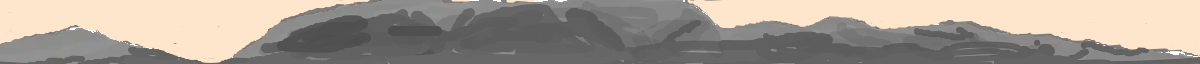
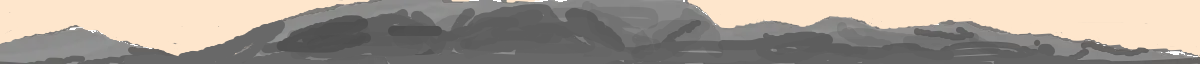
Improve dark theme colours

Changed region(s): [[0.1233, 0.3125, 0.2467, 1.0], [0.5858, 0.0, 0.6167, 0.0312]]

diff --git a/styles.css b/styles.css
@@ -3,20 +3,21 @@
 }
 
 :root {
-    --navbar-color: whitesmoke;
-    --bg-color: #fefefe; 
+    --navbar-color: #ddd;
+    --bg-color: #fee6cc; 
     --sky-color: #fee6cc; 
     --ground-color: #555;
     --mountain-color: #686868;
     --text-color: #444;
     --link-color: black;
     --hover-color: white;
+    --accent-color: rgb(255, 91, 123);
 }
-
 .navbar { /* containers */
     padding: 0 3vw;
     align-items: center;
     background-color: var(--navbar-color);
+    color: black;
     width: 100%;
     height: 70px;
     top: 0px;
@@ -41,24 +42,16 @@
    filter:opacity(50%);
 }
 .navbar a:hover, a:active {
-    background-color: var(--bg-color);
+    background-color: var(--navbar-color);
 }
 .navbar img:hover, img:active {
   filter: invert(100%);
 }
 #active-page {
     background-color: #555;
-    box-shadow: 5px 5px 2px #bbb;
 }
 #active-page img { /*icon for active page */
     filter: invert(100%);
-}
-
-footer {
-    width: 100%;
-    background-color: #ddd;
-    text-align: center;
-    padding: 8px 30px;
 }
 
 #submenu  { /* container for subpages titles and in-page navigation to level 2 headings */
@@ -245,20 +238,23 @@ body {
 
 body.dark-mode {
     --bg-color: #303030;
-    --navbar-color: #acacc9;
+    --navbar-color: #9191a8;
     --text-color: #fefefe;
     --link-color: white;
     --hover-color: black;
     --sky-color: #999;
     --ground-color: #303030;
     --mountain-color: #404040;
+    --accent-color: #b0b0ee;
 }
-
 body.dark-mode > .banner {
     background-image: url('assets/AGAS-banner-dark.webp');
 }
 body.dark-mode > .banner-sub {
     background-image: url('assets/AGAS-banner-sub-dark.webp');
+}
+body.dark-mode > .centerblock {
+    background-image: url('assets/welcome-heart-de.webp')
 }
 
 p, ul, h5 {
@@ -291,19 +287,7 @@ li {
   padding: 12px 0 0;
   background-size: 100% 100%;
   border-radius: 30%;
-}
-
-#fra.centerblock {
-    background-image: url('assets/welcome-heart-fr.webp');
-}
-#deu.centerblock {
-    background-image: url('assets/welcome-heart-de.webp');
-}
-#esp.centerblock {
-    background-image: url('assets/welcome-heart-es.webp');
-}
-#eng.centerblock {
-    background-image: url('assets/welcome-heart-en.webp');
+  background-image: url('assets/welcome-heart-fr.webp')
 }
 
 .centerblock a {
@@ -323,7 +307,7 @@ li {
 
 a {
     color: var(--link-color);
-    text-decoration: underline #ccc 1px;
+    text-decoration: underline 1px;
 }
 a:hover, a:active {
     background-color: var(--hover-color);
@@ -377,7 +361,7 @@ h3 {/* catch-eye heading */
     line-height: 1.5;
     padding: 0 15vw;
     margin: 30px 0 10px 0;
-    text-decoration: overline white 9px;
+    text-decoration: overline var(--accent-color) 9px;
 }
 
 
@@ -399,7 +383,6 @@ h5 img {height:18px; width:auto}
     font-size: 1rem;
     position:relative;
     top: 25px;
-    color: var(--text-color);
     background-color: none;
 }
 
@@ -409,8 +392,8 @@ h5 img {height:18px; width:auto}
 p.warning {
     background-color: white;
     color: #444;
-    border-color:  #86857f;
     border-style: solid;
+    border-color: var(--accent-color);
     border-width: 0 0 0 10px;
     margin: 30px 15vw;
     padding: 30px 10px;
@@ -431,6 +414,14 @@ p.decline {
 .decline a:hover {
     background-color: white;
 }
+
+footer {
+    width: 100%;
+    background-color: var(--navbar-color);
+    text-align: center;
+    padding: 8px 30px;
+}
+
 .rollout-bar { /* for "Please wait" bar in javascript (JSON feed) */
     margin: 0 15vw;
     background-color: rgba(255,255,255,0.8);

diff --git a/deutsch.html b/deutsch.html
@@ -44,12 +44,11 @@
     <a href="saleve.html">Salève</a> zu besteigen. 
     Alle Wanderfreunde sind willkommen. Ein Verantwortlicher des Genfer Vereins 
     <a href="association.html">Association Genevoise des Amis du Salève</a></span> erwartet euch dort bei jedem Wetter. 
-    Anmeldung nicht nötig. <strong>Alle Infos finden sich hier auf dieser Seite.</strong>
+    Anmeldung nicht nötig. <strong>Alle Infos finden sich hier auf dieser Seite.</strong></h5>
 
   <p class="warning">Unbedingt erforderlich sind <strong>eine gute körperliche Verfassung</strong> und <strong>gutes Schuhwerk</strong> 
     (keine Barfußschuhe, Flip-Flops usw.!). Der Salève ist ein echter Berg, wo beim Wandern Vorsicht geboten ist.<br>
-    <strong>Nehmt ausreichend Wasser mit</strong>, entlang der Wanderwege auf dem Salève gibt es kein Trinkwasser.
-  </p>
+    <strong>Nehmt ausreichend Wasser mit</strong>, entlang der Wanderwege auf dem Salève gibt es kein Trinkwasser.</p>
   <p>Ausserdem empfohlen: Kopfbedeckung und Sonnencreme, ein oder zwei Stöcke falls vorhanden, eine wind- oder regendichte Jacke, 
     im Winter warme Kleidung und 
     <a href="https://www.decathlon.ch/fr/p/crampons-a-neige-sh900-mountain-adulte-s-a-xl/_/R-p-312581">Steigeisen</a> 

diff --git a/index.html b/index.html
@@ -48,7 +48,7 @@
 
       <p class="warning">Il faut absolument une <strong>bonne condition physique</strong> et de <strong>bonnes chaussures</strong> (pas de nu-pieds, tongs, etc!)
          Le Salève est une vraie montagne, où la prudence s'impose. <br>
-         <strong>Emportez suffisament d'eau</strong> car il n'y a pas de sources le long des sentiers.
+         <strong>Emportez suffisamment d'eau</strong> car il n'y a pas de sources le long des sentiers.
         </p>
       <p>
         Prenez aussi un chapeau et de la crème solaire, un ou deux bâtons si vous en avez, une veste imperméable, 
